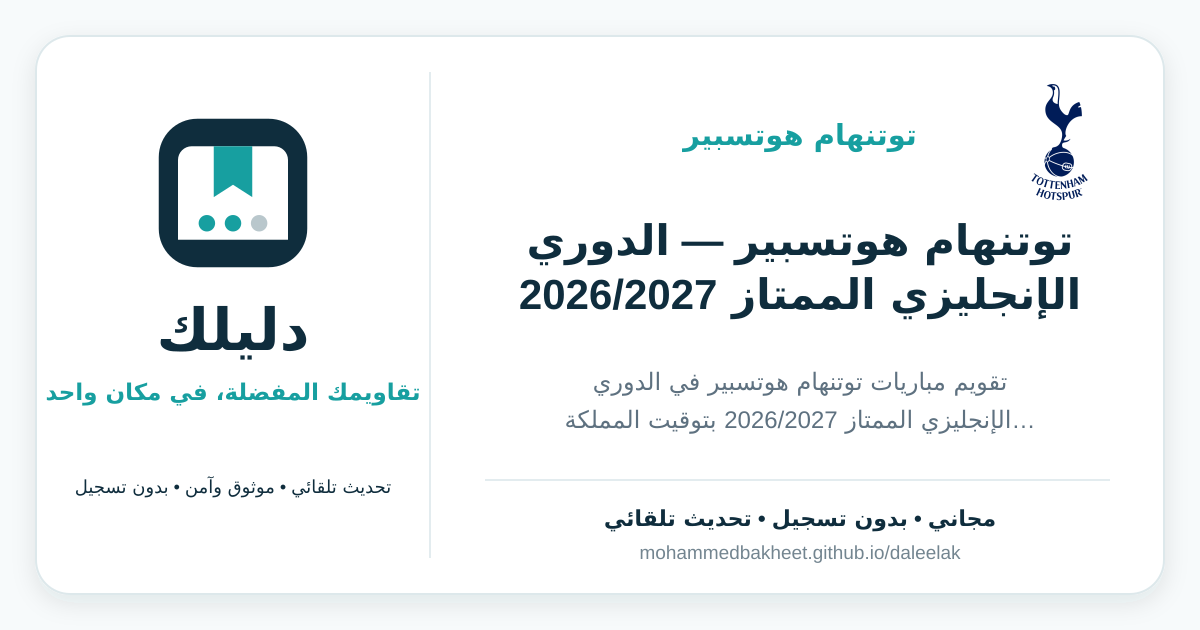
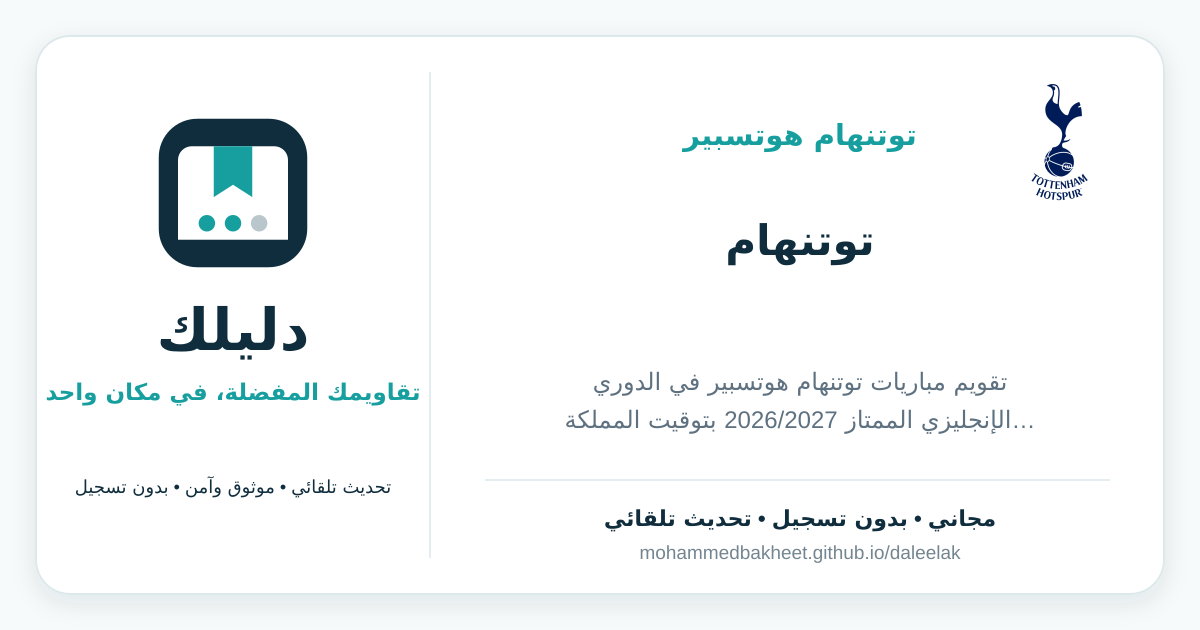
chore: update generated calendar data

Changed region(s): [[0.4317, 0.3317, 0.925, 0.5127]]

diff --git a/share/tottenham-hotspur-premier-league-2026-2027/index.html b/share/tottenham-hotspur-premier-league-2026-2027/index.html
@@ -1,1 +1,1 @@
-<!doctype html><html lang="ar" dir="rtl"><head><meta charset="utf-8"><meta name="viewport" content="width=device-width,initial-scale=1"><title>توتنهام هوتسبير — الدوري الإنجليزي الممتاز 2026/2027 — توتنهام هوتسبير | دليلك</title><meta name="description" content="تقويم مباريات توتنهام هوتسبير في الدوري الإنجليزي الممتاز 2026/2027 بتوقيت المملكة العربية السعودية."><link rel="canonical" href="https://mohammedbakheet.github.io/daleelak/share/tottenham-hotspur-premier-league-2026-2027/"><meta property="og:type" content="website"><meta property="og:site_name" content="دليلك"><meta property="og:locale" content="ar_SA"><meta property="og:url" content="https://mohammedbakheet.github.io/daleelak/share/tottenham-hotspur-premier-league-2026-2027/"><meta property="og:title" content="توتنهام هوتسبير — الدوري الإنجليزي الممتاز 2026/2027 — توتنهام هوتسبير | دليلك"><meta property="og:description" content="تقويم مباريات توتنهام هوتسبير في الدوري الإنجليزي الممتاز 2026/2027 بتوقيت المملكة العربية السعودية."><meta property="og:image" content="https://mohammedbakheet.github.io/daleelak/og/tottenham-hotspur-premier-league-2026-2027.png?v=128236ac1198"><meta property="og:image:secure_url" content="https://mohammedbakheet.github.io/daleelak/og/tottenham-hotspur-premier-league-2026-2027.png?v=128236ac1198"><meta property="og:image:type" content="image/png"><meta property="og:image:width" content="1200"><meta property="og:image:height" content="630"><meta property="og:image:alt" content="بطاقة توتنهام هوتسبير — الدوري الإنجليزي الممتاز 2026/2027 من دليلك"><meta name="twitter:card" content="summary_large_image"><meta name="twitter:title" content="توتنهام هوتسبير — الدوري الإنجليزي الممتاز 2026/2027 — توتنهام هوتسبير | دليلك"><meta name="twitter:description" content="تقويم مباريات توتنهام هوتسبير في الدوري الإنجليزي الممتاز 2026/2027 بتوقيت المملكة العربية السعودية."><meta name="twitter:image" content="https://mohammedbakheet.github.io/daleelak/og/tottenham-hotspur-premier-league-2026-2027.png?v=128236ac1198"><meta name="theme-color" content="#0F2D3D"><link rel="icon" href="../../assets/icons/favicon-32.png"><meta http-equiv="refresh" content="1;url=https://mohammedbakheet.github.io/daleelak/calendar.html?id=tottenham-hotspur-premier-league-2026-2027"><style>body{margin:0;min-height:100vh;display:grid;place-items:center;background:#f7fafb;color:#0f2d3d;font-family:Arial,sans-serif;text-align:center}.card{max-width:520px;padding:32px}.card img{width:92px}.card a{display:inline-block;margin-top:18px;padding:13px 22px;border-radius:12px;background:#179fa0;color:#fff;text-decoration:none;font-weight:700}</style><script>window.location.replace("https://mohammedbakheet.github.io/daleelak/calendar.html?id=tottenham-hotspur-premier-league-2026-2027");</script></head><body><main class="card"><img src="../../assets/brand/logo-icon.svg" alt="دليلك"><h1>توتنهام هوتسبير — الدوري الإنجليزي الممتاز 2026/2027</h1><p>تقويم مباريات توتنهام هوتسبير في الدوري الإنجليزي الممتاز 2026/2027 بتوقيت المملكة العربية السعودية.</p><a href="https://mohammedbakheet.github.io/daleelak/calendar.html?id=tottenham-hotspur-premier-league-2026-2027">فتح صفحة التقويم</a></main></body></html>
+<!doctype html><html lang="ar" dir="rtl"><head><meta charset="utf-8"><meta name="viewport" content="width=device-width,initial-scale=1"><title>توتنهام  — توتنهام هوتسبير | دليلك</title><meta name="description" content="تقويم مباريات توتنهام هوتسبير في الدوري الإنجليزي الممتاز 2026/2027 بتوقيت المملكة العربية السعودية."><link rel="canonical" href="https://mohammedbakheet.github.io/daleelak/share/tottenham-hotspur-premier-league-2026-2027/"><meta property="og:type" content="website"><meta property="og:site_name" content="دليلك"><meta property="og:locale" content="ar_SA"><meta property="og:url" content="https://mohammedbakheet.github.io/daleelak/share/tottenham-hotspur-premier-league-2026-2027/"><meta property="og:title" content="توتنهام  — توتنهام هوتسبير | دليلك"><meta property="og:description" content="تقويم مباريات توتنهام هوتسبير في الدوري الإنجليزي الممتاز 2026/2027 بتوقيت المملكة العربية السعودية."><meta property="og:image" content="https://mohammedbakheet.github.io/daleelak/og/tottenham-hotspur-premier-league-2026-2027.png?v=c7f2192f7c8a"><meta property="og:image:secure_url" content="https://mohammedbakheet.github.io/daleelak/og/tottenham-hotspur-premier-league-2026-2027.png?v=c7f2192f7c8a"><meta property="og:image:type" content="image/png"><meta property="og:image:width" content="1200"><meta property="og:image:height" content="630"><meta property="og:image:alt" content="بطاقة توتنهام  من دليلك"><meta name="twitter:card" content="summary_large_image"><meta name="twitter:title" content="توتنهام  — توتنهام هوتسبير | دليلك"><meta name="twitter:description" content="تقويم مباريات توتنهام هوتسبير في الدوري الإنجليزي الممتاز 2026/2027 بتوقيت المملكة العربية السعودية."><meta name="twitter:image" content="https://mohammedbakheet.github.io/daleelak/og/tottenham-hotspur-premier-league-2026-2027.png?v=c7f2192f7c8a"><meta name="theme-color" content="#0F2D3D"><link rel="icon" href="../../assets/icons/favicon-32.png"><meta http-equiv="refresh" content="1;url=https://mohammedbakheet.github.io/daleelak/calendar.html?id=tottenham-hotspur-premier-league-2026-2027"><style>body{margin:0;min-height:100vh;display:grid;place-items:center;background:#f7fafb;color:#0f2d3d;font-family:Arial,sans-serif;text-align:center}.card{max-width:520px;padding:32px}.card img{width:92px}.card a{display:inline-block;margin-top:18px;padding:13px 22px;border-radius:12px;background:#179fa0;color:#fff;text-decoration:none;font-weight:700}</style><script>window.location.replace("https://mohammedbakheet.github.io/daleelak/calendar.html?id=tottenham-hotspur-premier-league-2026-2027");</script></head><body><main class="card"><img src="../../assets/brand/logo-icon.svg" alt="دليلك"><h1>توتنهام </h1><p>تقويم مباريات توتنهام هوتسبير في الدوري الإنجليزي الممتاز 2026/2027 بتوقيت المملكة العربية السعودية.</p><a href="https://mohammedbakheet.github.io/daleelak/calendar.html?id=tottenham-hotspur-premier-league-2026-2027">فتح صفحة التقويم</a></main></body></html>
